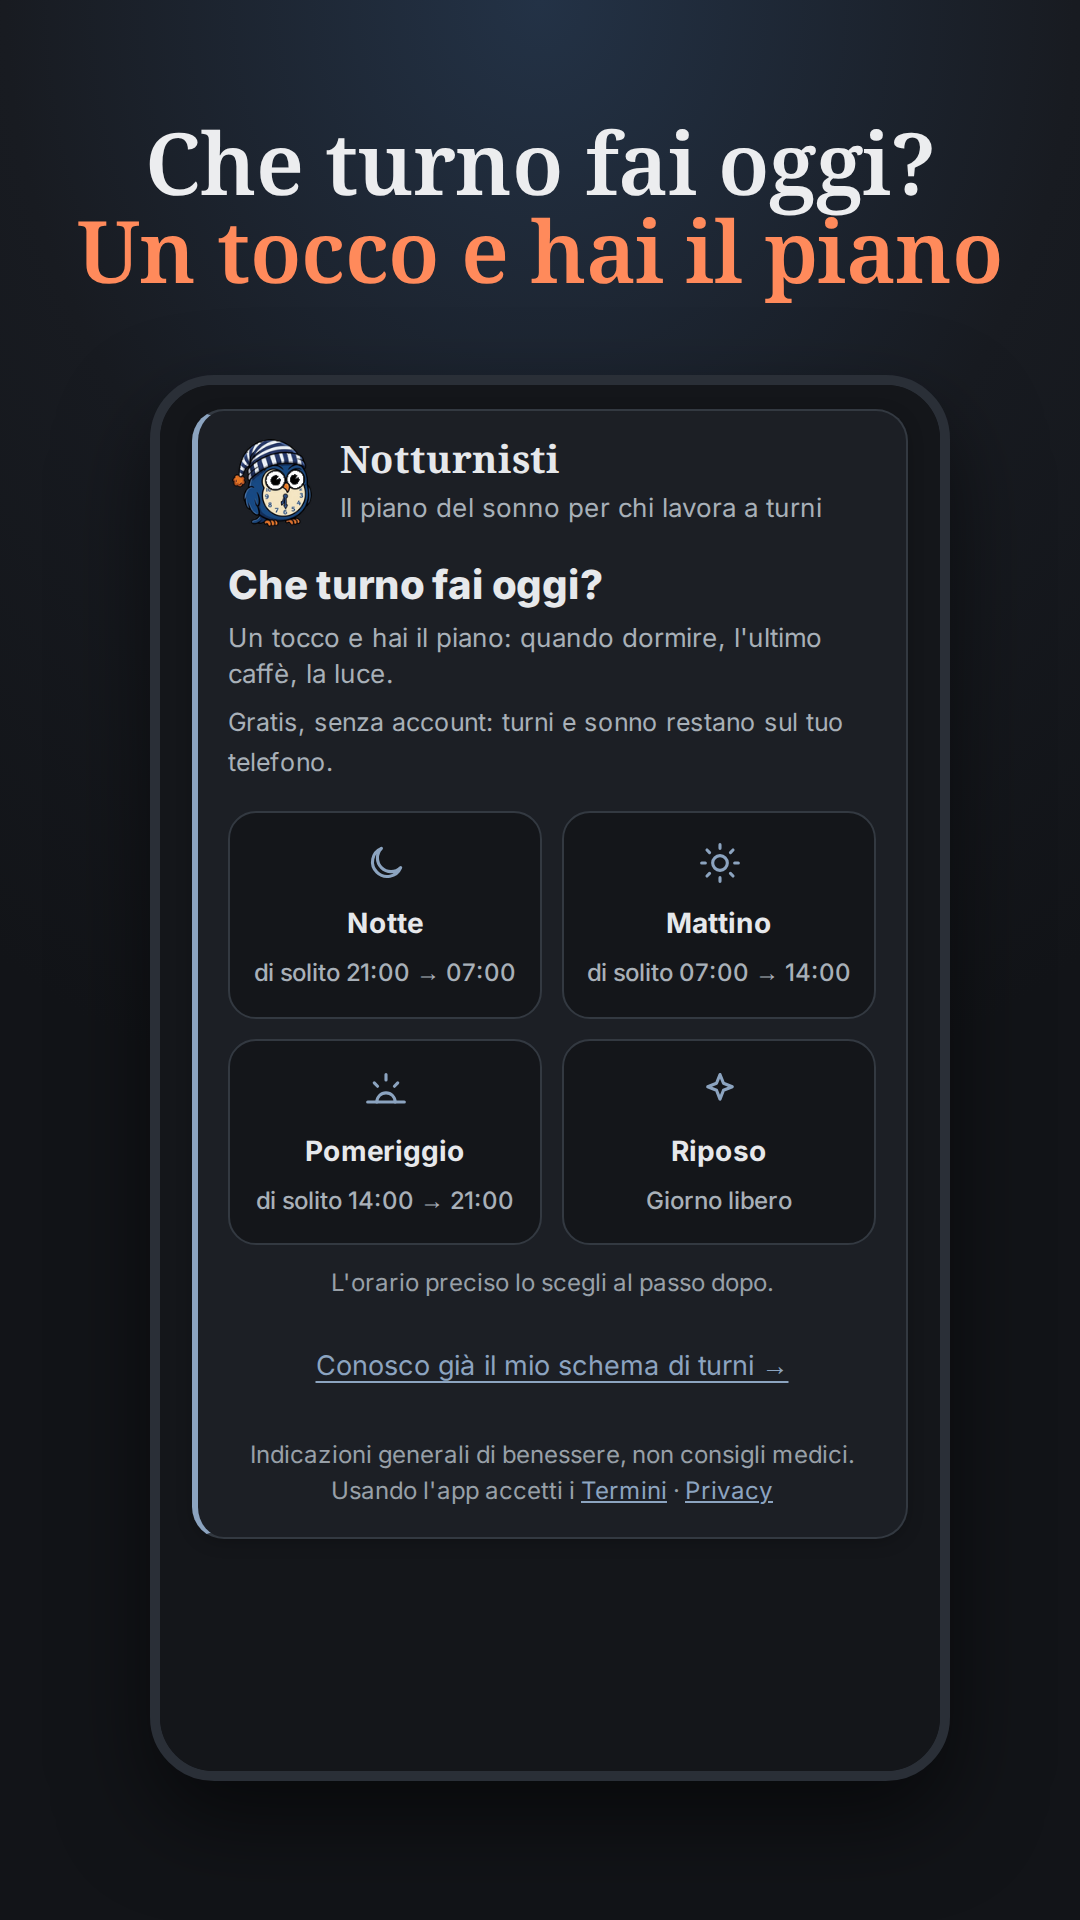
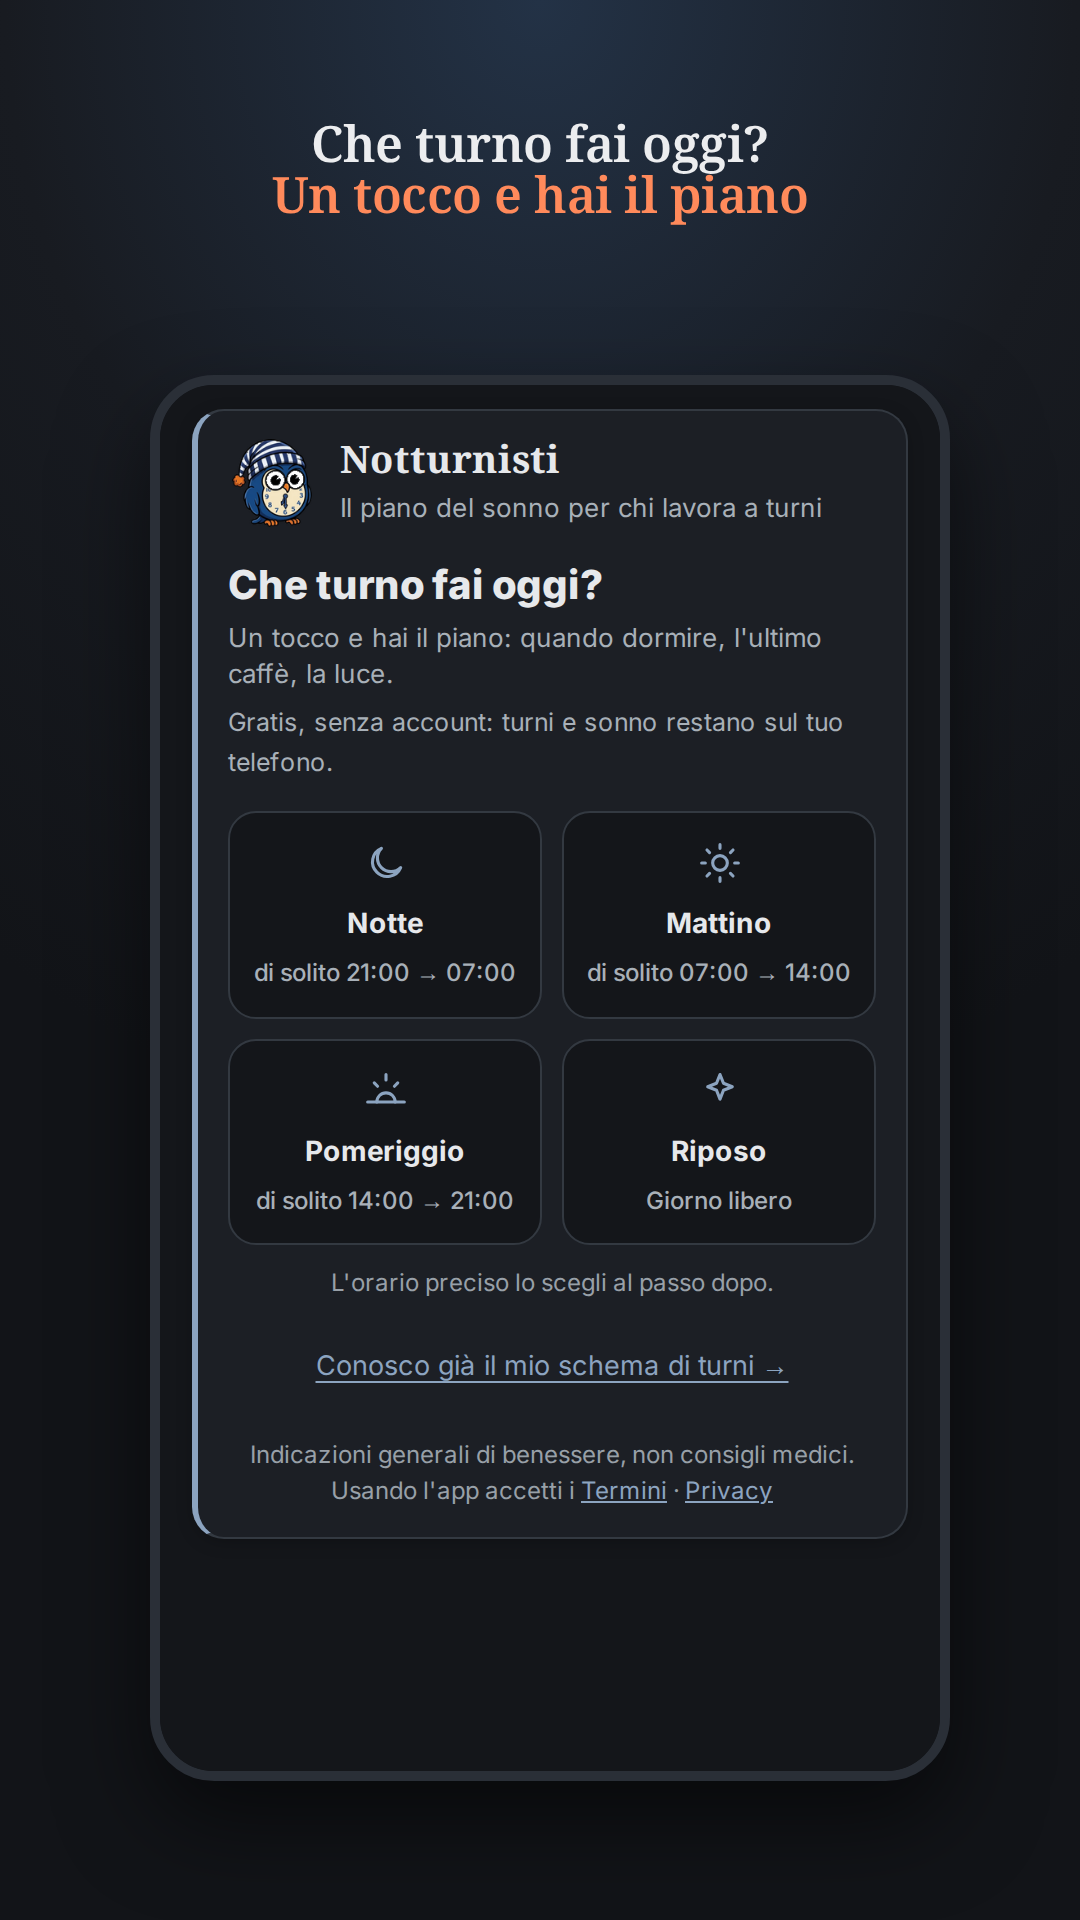
Screenshot dello Store: titolo sempre su due righe
06-liberi andava su tre righe e toccava la cornice: testo più corto
(«per chi ti aspetta») e, nello script, carattere ridotto se una riga sfora.

Claude-Session: https://claude.ai/code/session_01R7d13vswTViiovv4LeTsYc

Changed region(s): [[0.0611, 0.0625, 0.9472, 0.1562]]

diff --git a/docs/play/scheda.md b/docs/play/scheda.md
@@ -82,7 +82,7 @@ Usavi Notturnisti dal browser? All'apertura scegli «Porta qui i tuoi turni».
   3. 03-onboarding — Che turno fai oggi? Un tocco e hai il piano
   4. 04-perche — Ogni consiglio spiegato
   5. 05-adatta — Il piano si adatta a come dormi davvero
-  6. 06-liberi — Il tuo tempo libero, da mandare a chi ti aspetta
+  6. 06-liberi — Il tuo tempo libero, per chi ti aspetta
   7. 07-scambio — Cambio turno: ti conviene?
   8. 08-mese — Turni che cambiano? Li segni in un minuto
 
